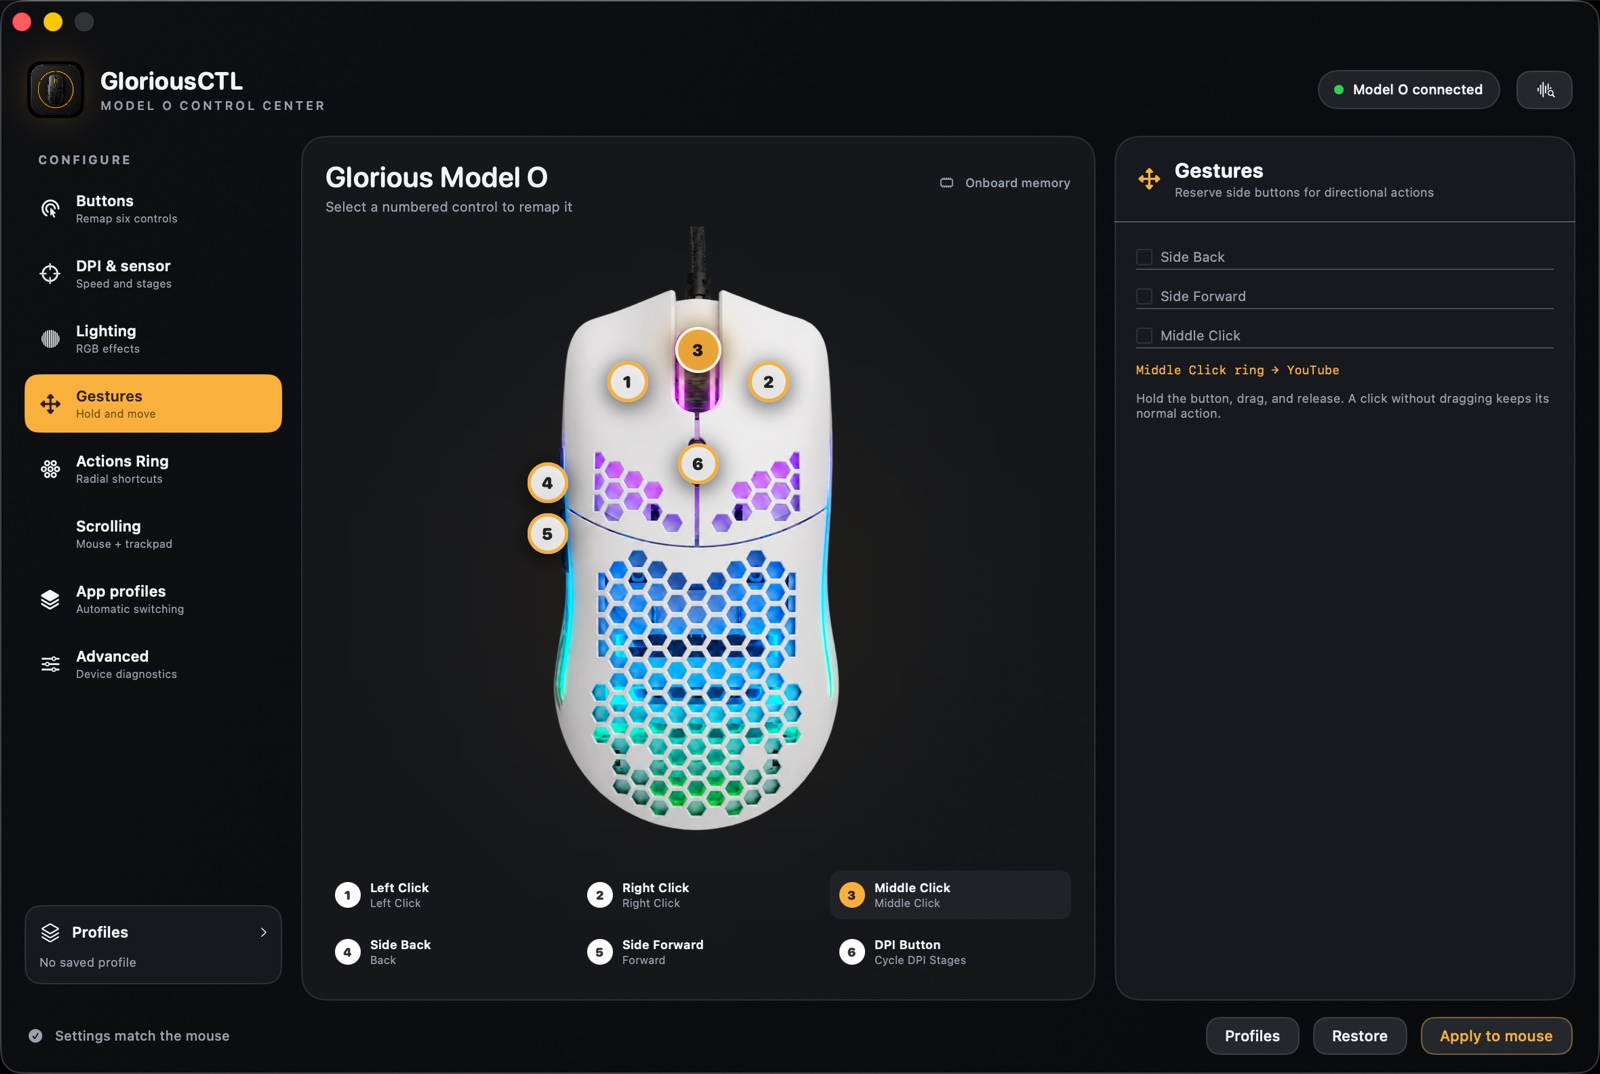
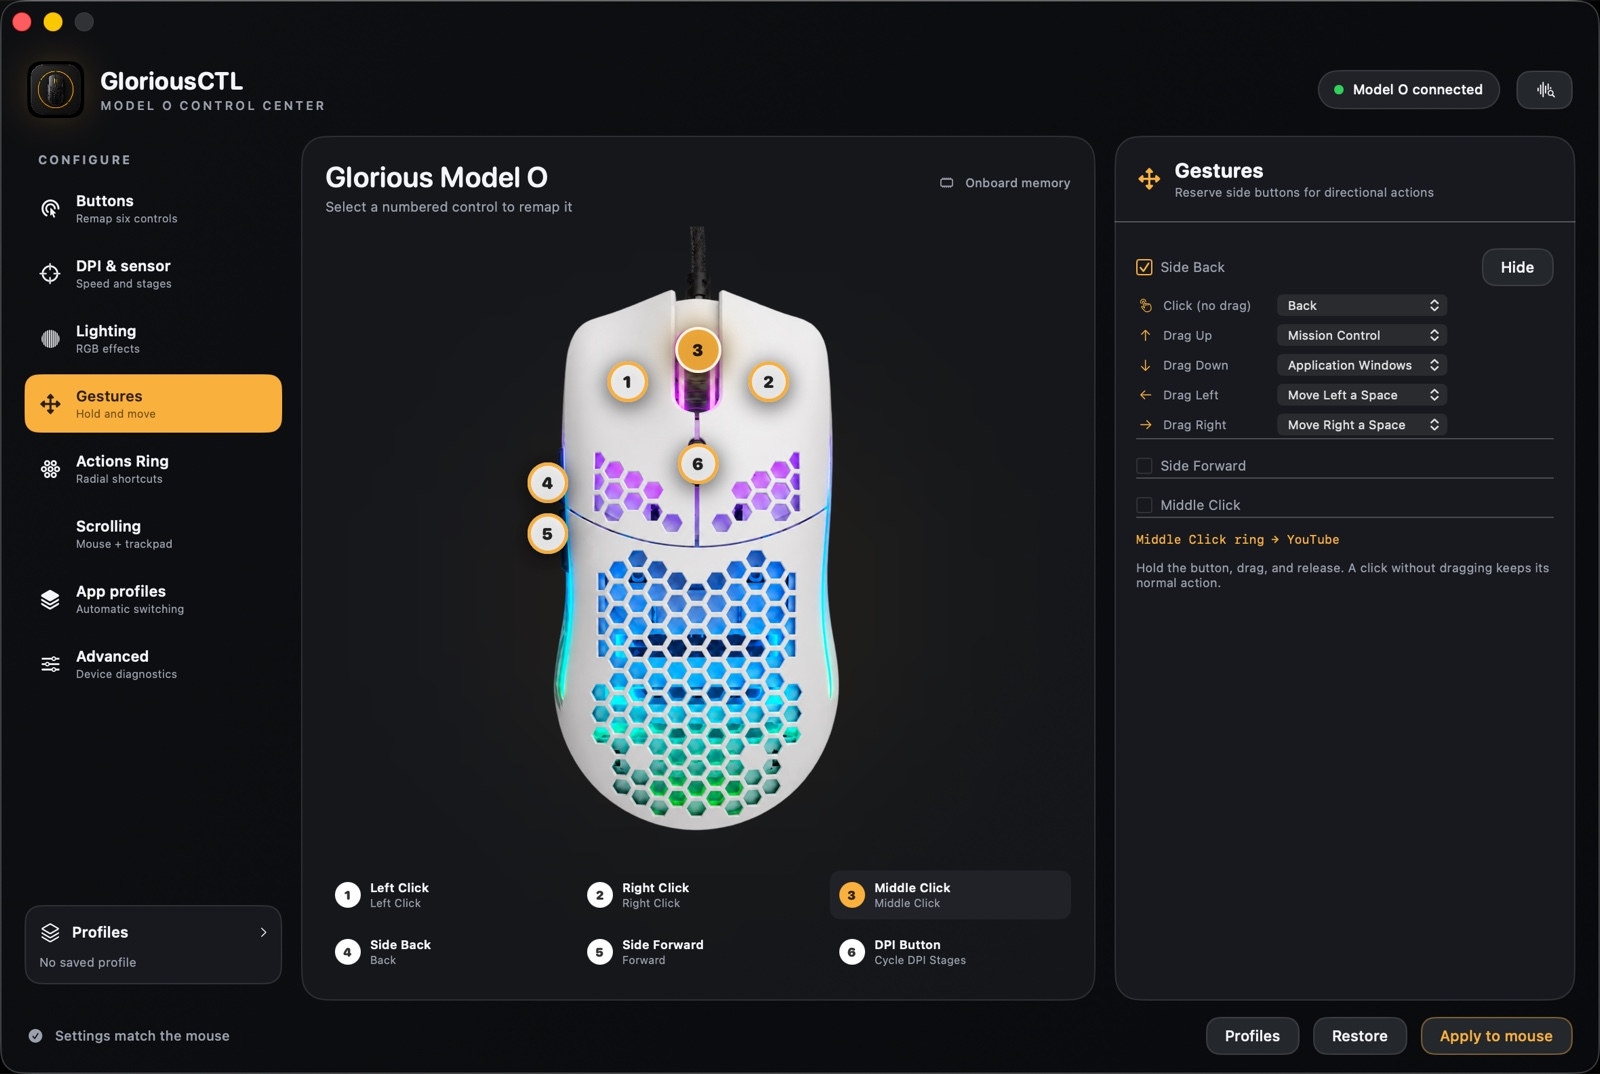
README: show gestures with a button actually configured
Re-capture the Gestures panel with Side Back enabled, so the screenshot shows
the five directional slots (click, up, down, left, right) rather than three
collapsed checkboxes.

Changed region(s): [[0.7188, 0.2151, 0.9688, 0.3994], [0.7188, 0.4302, 0.9688, 0.5531], [0.9375, 0.2458, 0.9688, 0.2765]]

diff --git a/README.md b/README.md
@@ -357,11 +357,13 @@ optional labels, and a hold-delay slider](Assets/feature-actionring.jpg)
 ### Gestures
 
 Reserve the middle or side buttons for directional actions: hold, drag, and release.
-A quick click without dragging still does its normal job, so you don't lose the
-button.
+Each button gets five slots — one per drag direction, plus the plain click. A quick
+click without dragging still does its normal job, so you don't lose the button.
 
-![The Gestures panel: checkboxes to reserve Side Back, Side Forward and Middle Click
-for directional actions](Assets/feature-gestures.jpg)
+![The Gestures panel with Side Back enabled and expanded: Click (no drag) mapped to
+Back, Drag Up to Mission Control, Drag Down to Application Windows, and Drag Left and
+Right to Move a Space, with Side Forward and Middle Click available
+below](Assets/feature-gestures.jpg)
 
 ### Scroll direction, fixed properly
 
